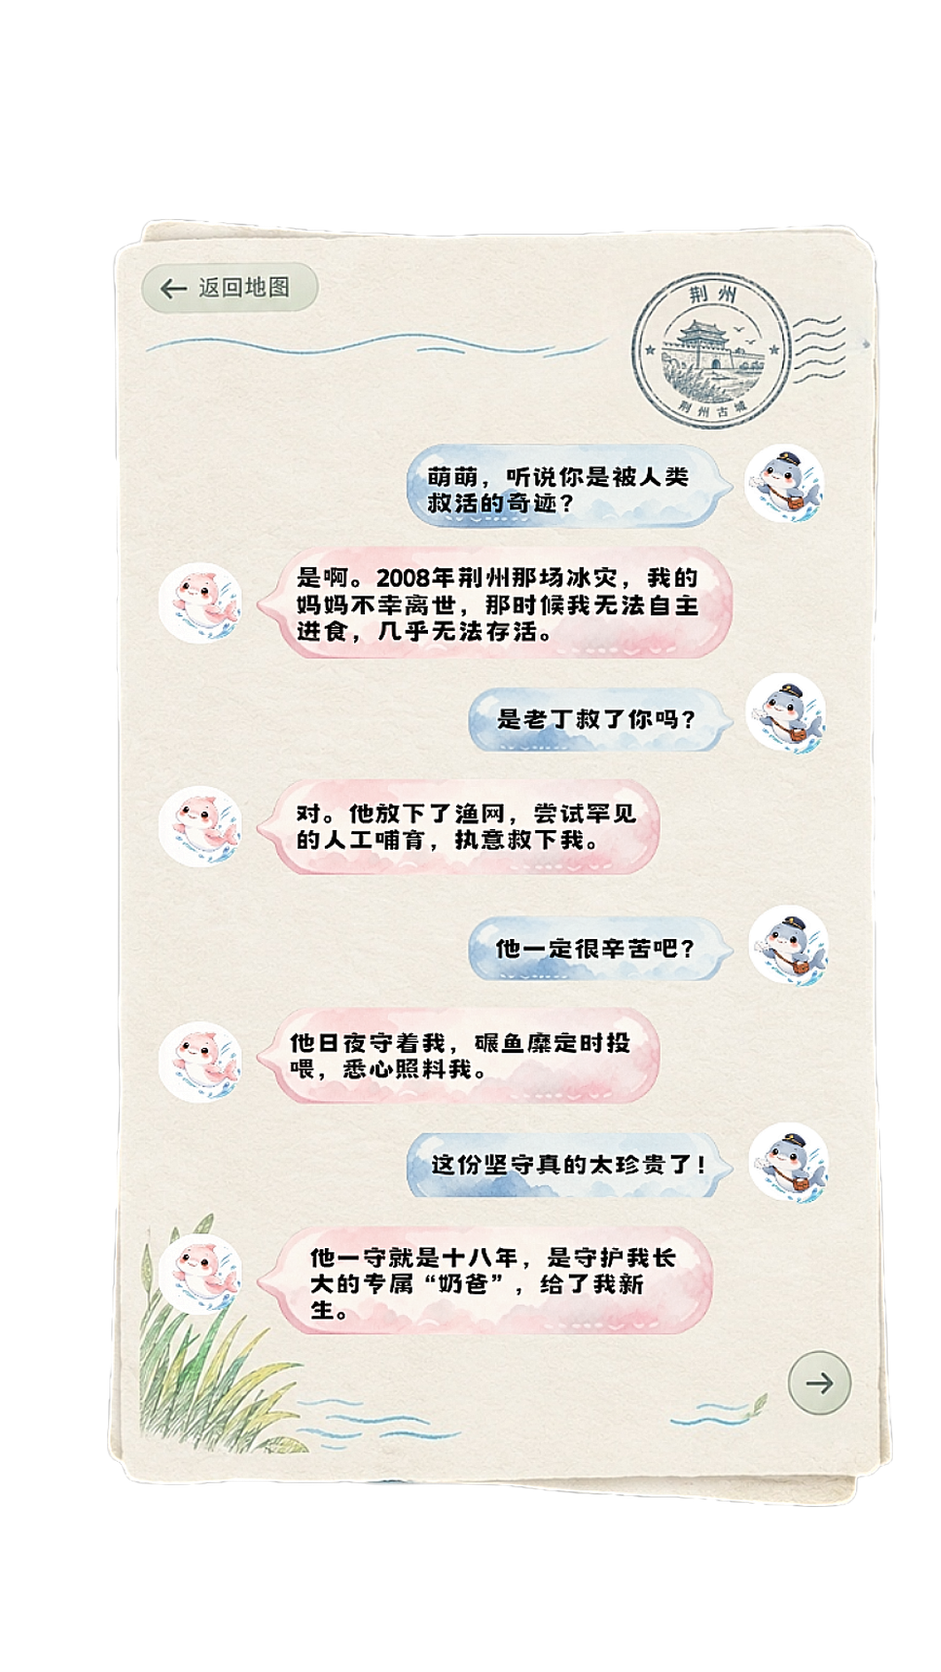
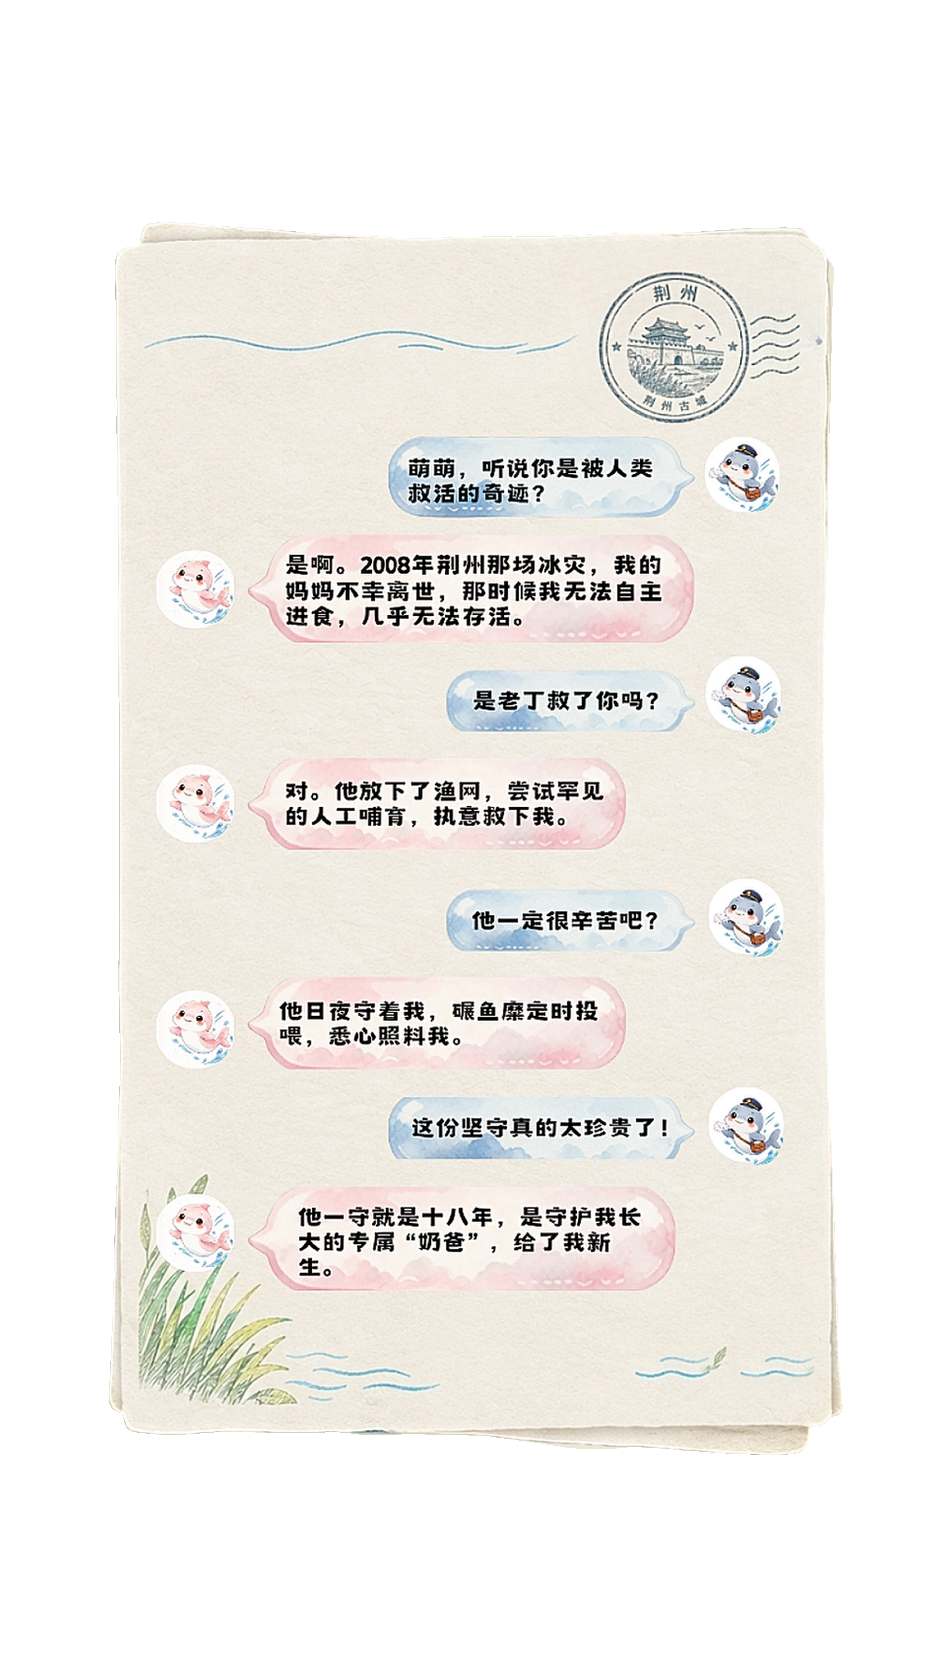
Align Jingzhou paper silhouettes and remove duplicate navigation

Changed region(s): [[0.0925, 0.1244, 0.9554, 0.9019], [0.1541, 0.1555, 0.4931, 0.2177], [0.5239, 0.1866, 0.5547, 0.2177]]

diff --git a/river/assets/letters.js b/river/assets/letters.js
@@ -1,7 +1,7 @@
 /* All eight PNGs use the same transparent 941 × 1672 canvas. */
 const letterCities = {
   yichang: {name:'宜昌', pages:['assets/letters/yichang-1.png','assets/letters/yichang-2.png']},
-  jingzhou: {name:'荆州', pages:['assets/letters/jingzhou-1.png','assets/letters/jingzhou-2.png']},
+  jingzhou: {name:'荆州', pages:['assets/letters/jingzhou-1.png?v=20261017-aligned','assets/letters/jingzhou-2.png?v=20261017-aligned']},
   jianli: {name:'监利', pages:['assets/letters/jianli-1.png','assets/letters/jianli-2.png']},
   wuhan: {name:'武汉', pages:['assets/letters/wuhan-1.png','assets/letters/wuhan-2.png']}
 };

diff --git a/river/index.html b/river/index.html
@@ -76,4 +76,4 @@ function renderMotion(now){
 addEventListener('resize',()=>{target=targetPoint()});
 function deliver(item,button){Letters.deliver(item,button)}
 requestAnimationFrame(renderMotion);
-</script><script src="assets/audio.js"></script><script src="assets/letters.js"></script><script src="assets/music-control.js"></script></body></html>
+</script><script src="assets/audio.js"></script><script src="assets/letters.js?v=20261017-aligned"></script><script src="assets/music-control.js"></script></body></html>
